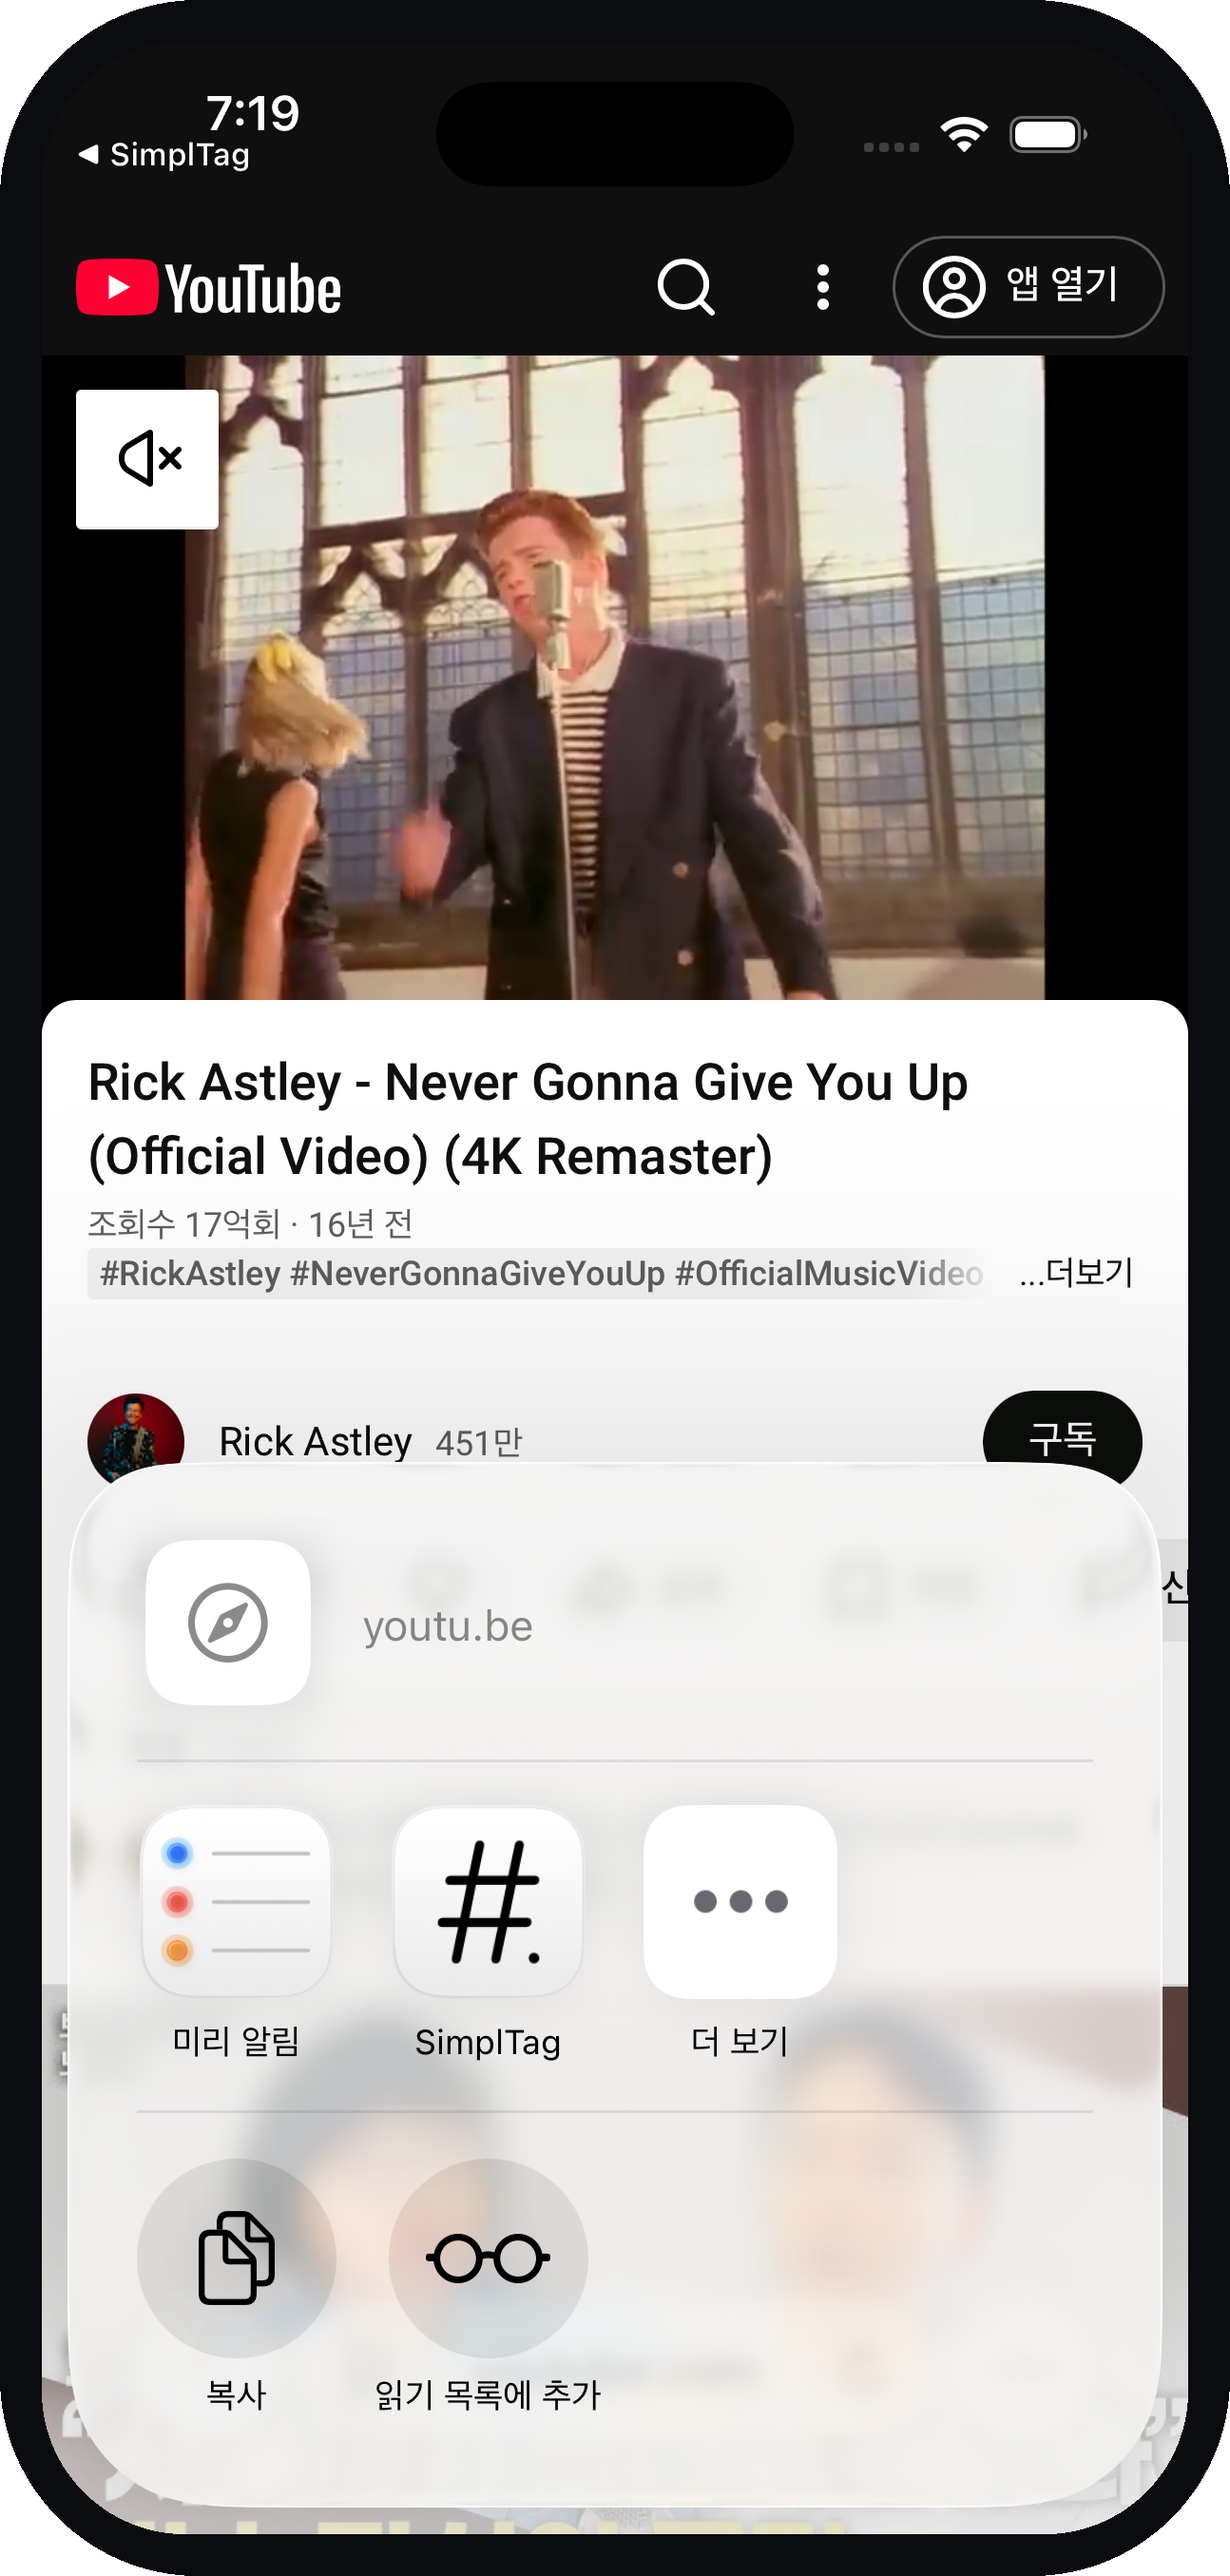
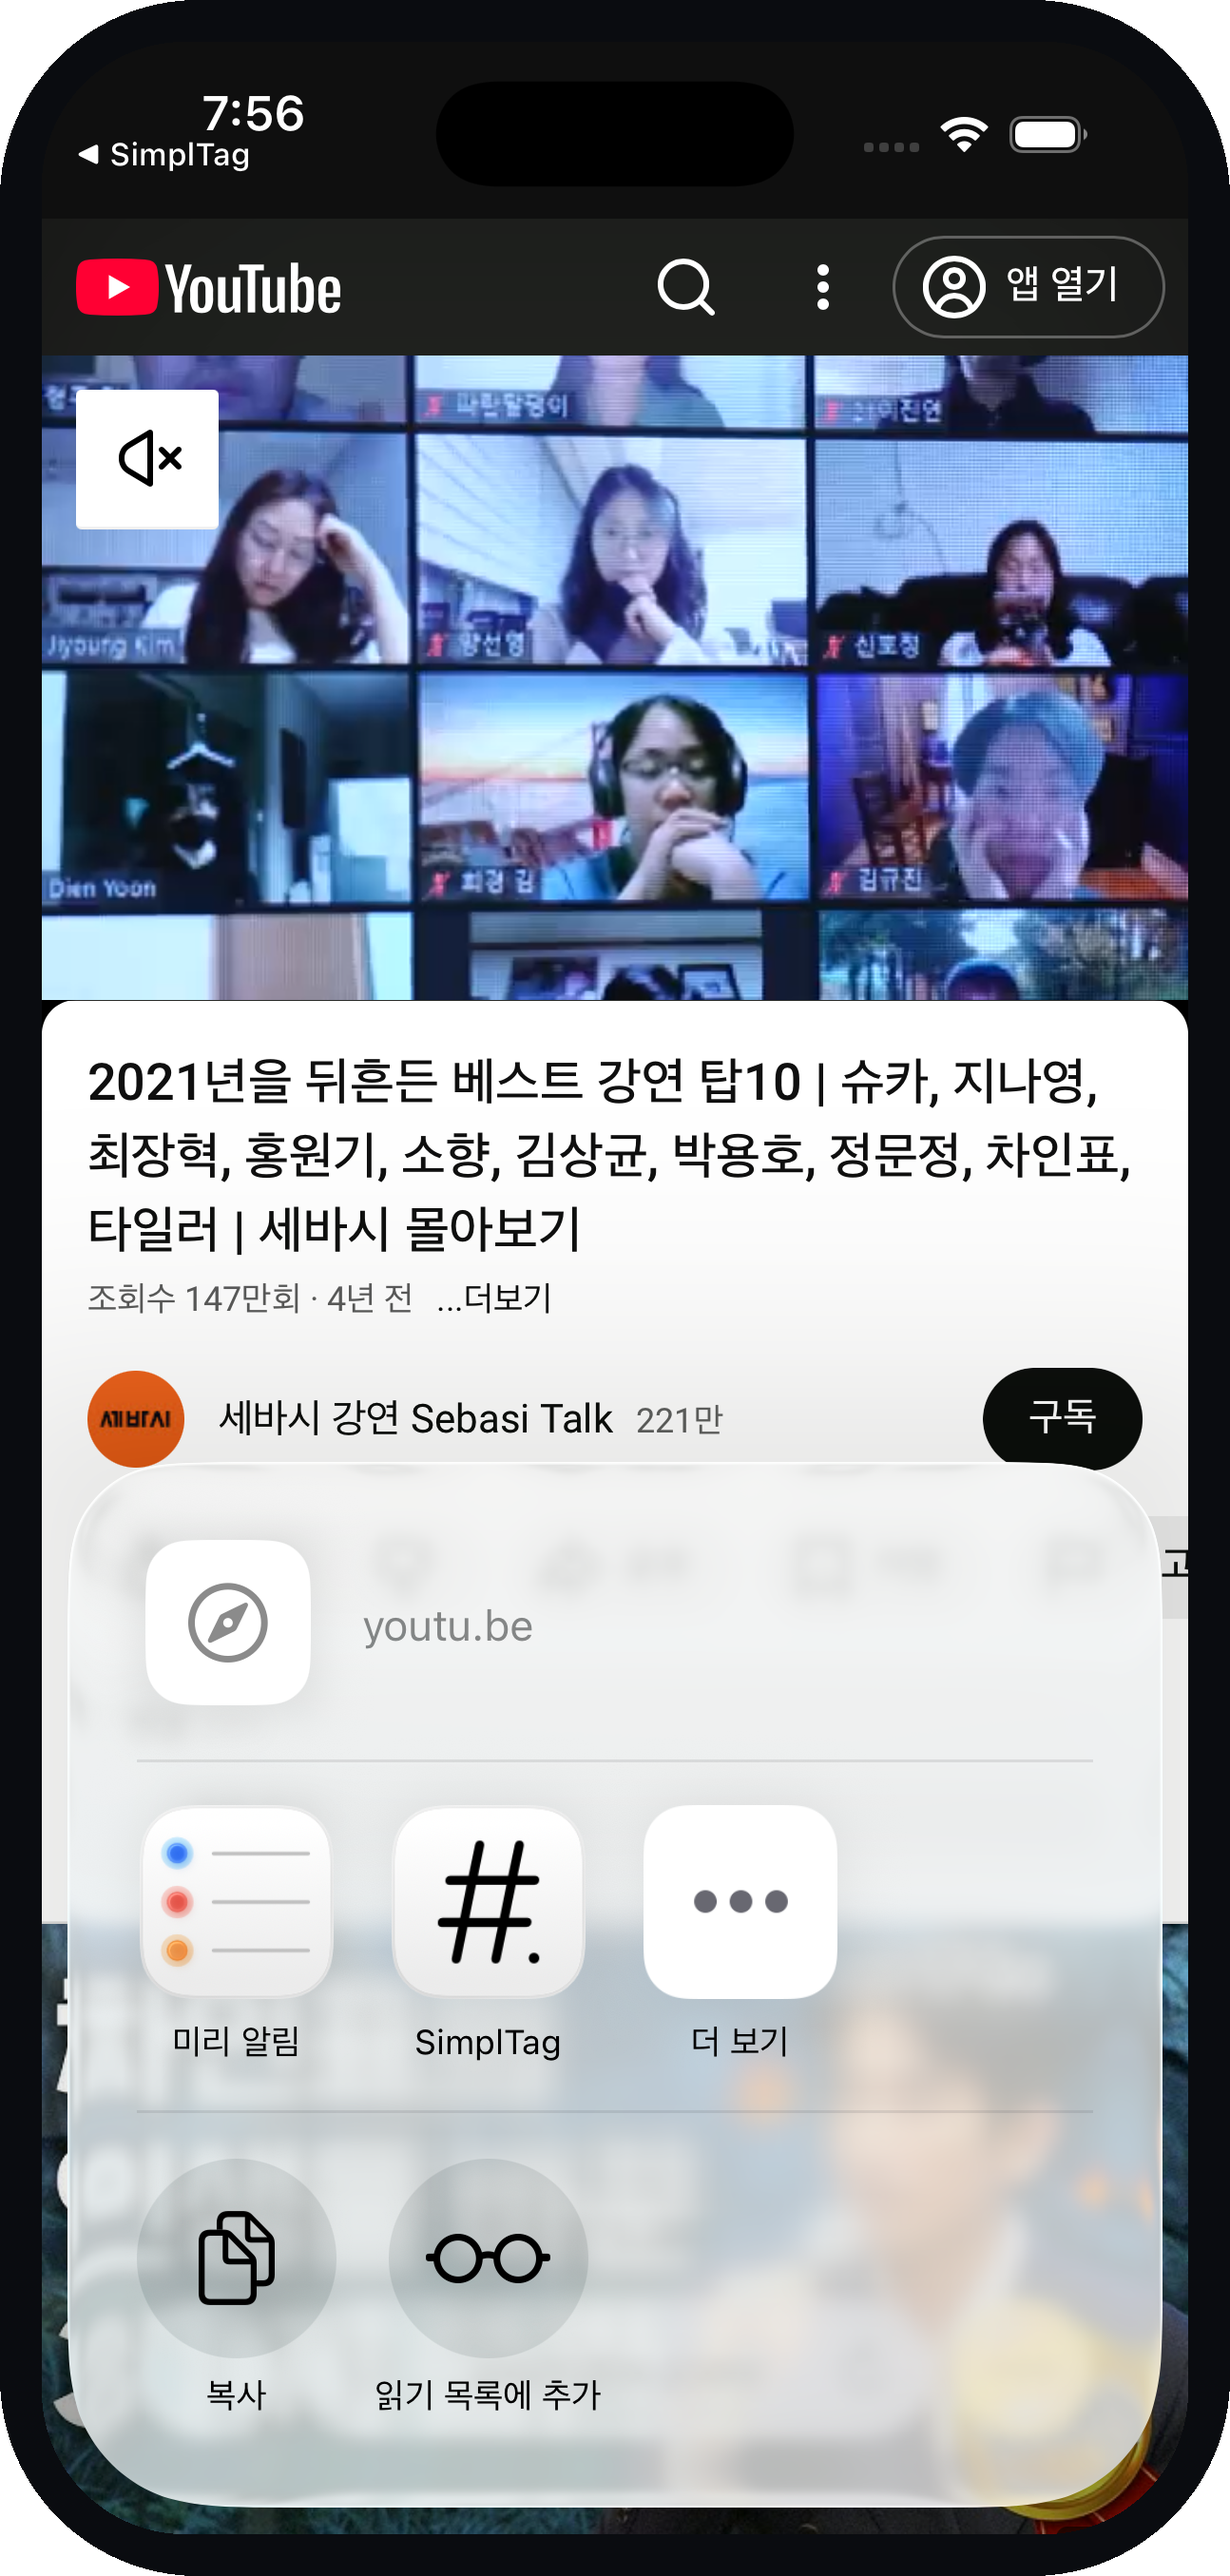
refine(landing): 한국어 카피 다듬기 + 섹션 축소 + 공유 컷 국내 콘텐츠 교체
리뷰 반영 3건:
- 어색한 한국어/잘못된 강조 수정(Hero 서브 inline bold 제거, 기능 제목 쉼표 제거,
  '심플태그와는'→'심플태그를 쓰면', Final CTA '아세요'→'결정하세요' 등)
- 길이 단축: Trust 섹션 삭제(FAQ와 중복), Features 여백·폰 크기 축소(7→6섹션)
- 공유 시트 컷을 뮤직비디오(Rick Astley)→국내 요약가능 콘텐츠(세바시 강연)로 재촬영

diff --git a/src/config/features.ts b/src/config/features.ts
@@ -25,7 +25,7 @@ export const HOW_STEPS: HowStep[] = [
     id: "decide",
     step: "03",
     label: "안 봐도 핵심은 알아요",
-    body: "30초면 결론을 먼저 확인. 볼 가치가 있으면 그때 원본으로 가면 돼요.",
+    body: "30초면 결론부터 확인할 수 있어요. 볼 만하면 그때 원본을 보면 되고요.",
     image: "/screenshots/detail.png",
     alt: "콘텐츠 핵심 요약을 보여주는 상세 화면",
   },
@@ -39,7 +39,7 @@ export const FEATURE_BLOCKS: FeatureBlock[] = [
   {
     id: "organize",
     eyebrow: "자동 정리",
-    title: "저장만 하면, 알아서 정리돼요",
+    title: "저장만 하면 알아서 정리돼요",
     body: "태그도 폴더도 직접 만들 필요 없어요. 심플태그가 콘텐츠를 읽고 어울리는 태그를 자동으로 붙여 분류해 둡니다.",
     image: "/screenshots/tag.png",
     alt: "자동으로 분류된 태그 목록 화면",
@@ -48,7 +48,7 @@ export const FEATURE_BLOCKS: FeatureBlock[] = [
   {
     id: "search",
     eyebrow: "의미 검색",
-    title: "한글로 물어도, 영문 콘텐츠까지 찾아드려요",
+    title: "한글로 물어도 영문 콘텐츠까지 찾아요",
     body: "제목·요약·태그·메모를 모두 이해하는 의미 기반 검색이에요. 정확한 단어가 기억나지 않아도 떠오르는 대로 찾으세요.",
     image: "/screenshots/list.png",
     alt: "저장한 콘텐츠가 쌓인 아카이브 목록 화면",
@@ -57,8 +57,8 @@ export const FEATURE_BLOCKS: FeatureBlock[] = [
   {
     id: "chat",
     eyebrow: "출처 기반 대화",
-    title: "저장한 콘텐츠에게, 직접 물어보세요",
-    body: "AI가 당신이 저장한 콘텐츠에 근거해 답해요. 지어내지 않고, 어떤 콘텐츠에서 나온 답인지 출처까지 보여드립니다.",
+    title: "저장한 콘텐츠에게 직접 물어보세요",
+    body: "AI가 내가 저장한 콘텐츠를 근거로 답해요. 지어내지 않고, 어떤 콘텐츠에서 나온 답인지 출처까지 보여드려요.",
     image: "/screenshots/chat.png",
     alt: "저장한 콘텐츠를 바탕으로 답하는 AI 대화 화면",
     accent: "blue",
@@ -88,7 +88,7 @@ export const FAQ_ITEMS: FaqItem[] = [
   {
     id: "privacy",
     q: "제가 저장한 내용은 안전한가요?",
-    a: "저장한 콘텐츠는 본인 계정에만 연결되고, 다른 사용자에게 노출되지 않아요. AI 답변도 당신이 저장한 콘텐츠 안에서만 만들어집니다.",
+    a: "저장한 콘텐츠는 본인 계정에만 연결되고, 다른 사용자에게 노출되지 않아요. AI 답변도 본인이 저장한 콘텐츠 안에서만 만들어집니다.",
   },
   {
     id: "platform",

diff --git a/src/app/_components/ProblemSection.tsx b/src/app/_components/ProblemSection.tsx
@@ -9,7 +9,7 @@ export function ProblemSection() {
     <section className="bg-brand-canvas px-5 py-20 md:py-28">
       <div className="mx-auto max-w-4xl text-center">
         <Reveal>
-          <p className="eyebrow text-brand-ink-soft">그거, 다들 겪어요</p>
+          <p className="eyebrow text-brand-ink-soft">누구나 겪는 일이에요</p>
           <h2 className="mx-auto mt-4 max-w-2xl text-[1.7rem] font-extrabold leading-[1.32] tracking-[-0.01em] text-brand-ink md:text-[2.25rem]">
             썸네일은 충격적인데,
             <br />
@@ -25,7 +25,7 @@ export function ProblemSection() {
           <Reveal delay={60}>
             <div className="h-full rounded-2xl border border-brand-line bg-white p-6 md:p-7">
               <span className="inline-flex items-center gap-1.5 rounded-full bg-brand-coral/10 px-3 py-1 text-[13px] font-semibold text-brand-coral">
-                지금까지
+                지금까지는
               </span>
               <ul className="mt-4 space-y-3 text-[15px] leading-relaxed text-brand-ink-soft">
                 <li>· 끝까지 보고 나서야 “이걸 왜 봤지” 싶고</li>
@@ -38,10 +38,10 @@ export function ProblemSection() {
           <Reveal delay={140}>
             <div className="h-full rounded-2xl border border-brand-blue/25 bg-brand-blue/[0.04] p-6 md:p-7">
               <span className="inline-flex items-center gap-1.5 rounded-full bg-brand-blue/10 px-3 py-1 text-[13px] font-semibold text-brand-blue">
-                심플태그와는
+                심플태그를 쓰면
               </span>
               <ul className="mt-4 space-y-3 text-[15px] leading-relaxed text-brand-ink">
-                <li>· 보기 전에 핵심부터 30초로 먼저 확인하고</li>
+                <li>· 보기 전에 30초 만에 핵심부터 확인하고</li>
                 <li>· 저장한 콘텐츠는 알아서 태그·폴더로 정리되고</li>
                 <li>· 한글로 떠오르는 대로 물어도 바로 찾고</li>
               </ul>

diff --git a/src/app/_components/FeaturesSection.tsx b/src/app/_components/FeaturesSection.tsx
@@ -8,17 +8,17 @@ import { Reveal } from "./Reveal";
  */
 export function FeaturesSection() {
   return (
-    <section className="bg-brand-canvas px-5 py-20 md:py-28">
+    <section className="bg-brand-canvas px-5 py-16 md:py-24">
       <div className="mx-auto max-w-6xl">
         <Reveal className="mx-auto max-w-2xl text-center">
-          <p className="eyebrow text-brand-ink-soft">검증하고 끝이 아니에요</p>
+          <p className="eyebrow text-brand-ink-soft">검증이 끝이 아니에요</p>
           <h2 className="mt-4 text-[1.8rem] font-extrabold leading-[1.3] tracking-[-0.01em] text-brand-ink md:text-[2.4rem]">
-            한 번 본 콘텐츠가,
-            <br className="sm:hidden" /> 검색되는 나만의 아카이브로
+            한 번 저장하면
+            <br className="sm:hidden" /> 검색 가능한 아카이브가 돼요
           </h2>
         </Reveal>
 
-        <div className="mt-16 flex flex-col gap-20 md:gap-28">
+        <div className="mt-14 flex flex-col gap-14 md:gap-20">
           {FEATURE_BLOCKS.map((f, i) => {
             const reversed = i % 2 === 1;
             const accent =
@@ -48,7 +48,7 @@ export function FeaturesSection() {
                   delay={80}
                   className={reversed ? "md:order-1" : ""}
                 >
-                  <div className="relative mx-auto w-full max-w-[300px]">
+                  <div className="relative mx-auto w-full max-w-[260px]">
                     <div
                       aria-hidden
                       className={`absolute inset-x-2 bottom-8 top-12 rounded-[2.5rem] ${halo} blur-md`}

diff --git a/src/app/_components/Hero.tsx b/src/app/_components/Hero.tsx
@@ -38,13 +38,9 @@ export function Hero() {
             </span>
           </h1>
 
-          <p className="animate-rise mx-auto mt-6 max-w-xl text-[1.0625rem] leading-[1.65] text-brand-ink-soft [animation-delay:200ms] md:mx-0 md:text-[1.1875rem]">
-            링크만 공유하면 <b className="font-semibold text-brand-ink">SimplTag</b>
-            가 먼저 읽어드려요.{" "}
-            <span className="font-semibold text-brand-ink">
-              30초면 안 봐도 될 영상인지
-            </span>{" "}
-            알 수 있어요. 핵심 요약은 덤으로 쌓이고요.
+          <p className="animate-rise mx-auto mt-6 max-w-xl text-[1.0625rem] leading-[1.7] text-brand-ink-soft [animation-delay:200ms] md:mx-0 md:text-[1.1875rem]">
+            링크만 공유하면 SimplTag가 먼저 읽고 핵심만 추려드려요. 끝까지 안
+            봐도 30초면 볼지 말지 결정할 수 있어요.
           </p>
 
           <div className="animate-rise mt-9 [animation-delay:280ms]">

diff --git a/src/app/_components/FinalCta.tsx b/src/app/_components/FinalCta.tsx
@@ -18,13 +18,12 @@ export function FinalCta() {
       />
       <Reveal className="relative mx-auto max-w-2xl text-center">
         <h2 className="text-[2rem] font-extrabold leading-[1.25] tracking-[-0.02em] text-brand-ink md:text-[2.75rem]">
-          다음 영상부터는,
+          다음 영상부터는
           <br />
-          보기 전에 아세요.
+          보기 전에 결정하세요.
         </h2>
-        <p className="mx-auto mt-5 max-w-md text-[1.0625rem] leading-[1.65] text-brand-ink-soft">
-          링크 하나만 공유하면 돼요. 후회하는 시간 대신, 핵심만 남는 아카이브를
-          지금 시작해보세요.
+        <p className="mx-auto mt-5 max-w-md text-[1.0625rem] leading-[1.7] text-brand-ink-soft">
+          링크 하나만 공유하면 돼요. 후회하는 시간 대신 핵심만 쌓아보세요.
         </p>
         <div className="mt-9 flex justify-center">
           <AppStoreCta align="center" />

diff --git a/src/app/page.tsx b/src/app/page.tsx
@@ -4,7 +4,6 @@ import { Hero } from "@/app/_components/Hero";
 import { ProblemSection } from "@/app/_components/ProblemSection";
 import { HowItWorks } from "@/app/_components/HowItWorks";
 import { FeaturesSection } from "@/app/_components/FeaturesSection";
-import { TrustSection } from "@/app/_components/TrustSection";
 import { FaqSection } from "@/app/_components/FaqSection";
 import { FinalCta } from "@/app/_components/FinalCta";
 
@@ -17,7 +16,6 @@ export default function Home() {
         <ProblemSection />
         <HowItWorks />
         <FeaturesSection />
-        <TrustSection />
         <FaqSection />
         <FinalCta />
       </main>
